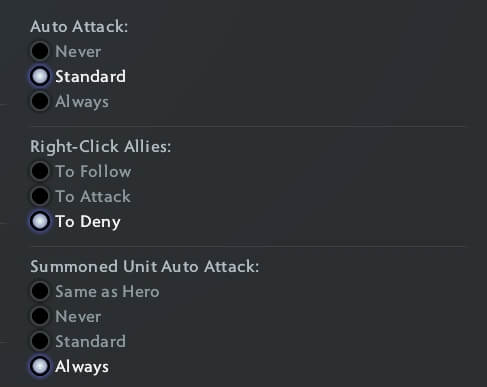
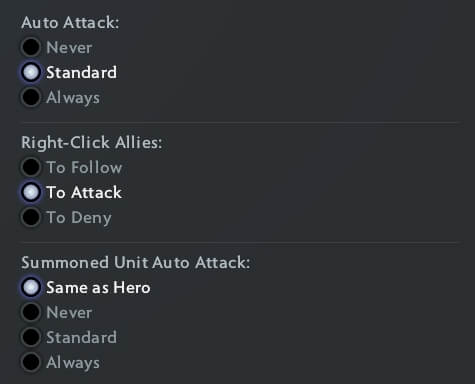
.

Changed region(s): [[0.0295, 0.6562, 0.5305, 1.0], [0.0295, 0.3438, 0.3537, 0.625], [0.0295, 0.0312, 0.2653, 0.2812]]

diff --git a/web/index.html b/web/index.html
@@ -1176,22 +1176,35 @@
       <img class="" src="assets/images/options/options-autoattack.jpg" alt=""> 
 
       <p class="mt2">
-        You definitely want to enable auto attack for illusion based heroes such as <spell>Phantom Lancer</spell><img class="heroicon" src="assets/images/heroicon/phantomlancer.jpg" alt="">, <spell>Terrorblade</spell><img class="heroicon" src="assets/images/heroicon/terrorblade.jpg" alt=""> and <spell>Naga Siren</spell><img class="heroicon" src="assets/images/heroicon/nagasiren.jpg" alt="">, so that you and the illusions auto attack creeps.
+        You definitely want to have <act>Summoned Unit Auto Attack: Always</act> for manta and illusion based heroes such as <spell>Phantom Lancer</spell><img class="heroicon" src="assets/images/heroicon/phantomlancer.jpg" alt="">, <spell>Terrorblade</spell><img class="heroicon" src="assets/images/heroicon/terrorblade.jpg" alt=""> and <spell>Naga Siren</spell><img class="heroicon" src="assets/images/heroicon/nagasiren.jpg" alt="">.<br><br>
+      
+        This works: <act>Auto Attack: Standard</act> + <act>Summoned Unit Auto Attack: Always</act>
+      </p>
+
+      <div class="separator mt2"></div>
+
+      <p class="mt2">
+        Another option is to use <act>Toggle Autoattack</act> button.
       </p>
 
       <img class="" src="assets/images/options/toggleautoattack.jpg" alt="">
+
+      <p class="mt2">
+        This allow you to use <act>Summoned Unit Auto Attack: Same as Hero</act> and switch the state with the button.<br>
+      </p>
+
+      <p class="mt2">
+        However, I personally don't like <act>Autoattack: On</act> on my main hero. <br>
+        I use <act>Auto Attack: Standard</act> + <act>Summoned Unit Auto Attack: Always</act>.<br><br>
+        Experiment with it.
+      </p>
+
 
       <div class="separator mt2"></div>
 
       <p class="mt2">And don't forget to enable <act>Quick Attack</act> and <act>Quick Move</act>.</p>
 
       <img class="" src="assets/images/options/quickattackmove.jpg" alt=""> 
-
-      <p class="mt2">
-        You <i>might</i> want to use <act>Auto Attack: Always</act> for 'Cancel Hit' last hitting.<br>
-        But that's old.<br><br>
-        The newest tech for last-hits is to use the <act>Auto-repeat Right Mouse</act> instead.
-      </p>
 
     </div>    
 
@@ -1202,22 +1215,43 @@
       <h2>How to Last-Hit</h2>
 
       <p class="mt2">
-        Step 1. Enable <act>Auto-repeat Right Mouse</act> and <act>Quick Attack</act>.
+        Step 1a. Enable <act>Auto-repeat Right Mouse</act>.
       </p>
 
       <img class="" src="assets/images/options/autorepeatmouse.jpg" alt=""> 
+
+      <p class="mt2">
+        Step 1b. Enable <act>Quick Attack</act>.
+      </p>
+
       <img class="" src="assets/images/options/quickattackmove.jpg" alt="">
 
       <p class="mt2">
-        Step 2. Press and hold your <act>Right-Click</act> or <act>Attack</act> on your target creep.
+        Step 1c. Check <act>Right-Click Allies: To Attack</act>.
+      </p>
+
+      <img class="" src="assets/images/options/options-rightclick-allies.jpg" alt="">
+
+      <p class="mt2">
+        Step 2. Press and hold your <act>Right-Click</act> on your target creep.<br>
+        <act>Attack</act> key doesn't work for this!
       </p>
 
       <p class="mt2">
-        Step 3. Spam your <act>Stop</act> command to cancel the animation.
+        Step 3. Spam your <act>Stop</act> command to cancel the attack animation.
       </p>
 
       <p class="mt4">
-        This way you can reliably last-hit every creep.
+        This way you can reliably last-hit most creeps.
+      </p>
+
+      <div class="separator mt2"></div>
+
+      <p class="mt2">
+        The reason to choose <act>Right-Click Allies: To Attack</act> is for denying.<br><br>
+        If you choose  <act>Right-Click Allies: To Deny</act> your hero will <i>walk</i> toward the creep if it's above 50% or can't be denied.<br>
+        If you choose  <act>Right-Click Allies: To Attack</act> your hero will <b>not</b> <i>walk</i> toward the creep if it's above 50% or can't be denied.<br><br>
+        So this is a better option.
       </p>
 
     </div>    
@@ -1237,15 +1271,17 @@
 
       <p class="mt2">
         However, you really want this <b>Disabled</b> on <spell>Puck</spell><img class="heroicon" src="assets/images/heroicon/puck.jpg" alt=""><br>
-        You want to jump <spell>Ethereal Jaunt</spell><img class="heroicon" src="assets/images/spellicon/etherealjaunt.jpg" alt=""> while channeling <spell>Phase Shift</spell><img class="heroicon" src="assets/images/spellicon/phaseshift.jpg" alt="">
+        <spell>Phase Shift</spell><img class="heroicon" src="assets/images/spellicon/phaseshift.jpg" alt=""> is a channel!
       </p>
 
       <p class="mt2">
-        If you have <act>Abilities Require Cancel</act> <b>Enabled</b> then you have to <i>manually</i> <act>Stop</act> <spell>Phase Shift</spell><img class="heroicon" src="assets/images/spellicon/phaseshift.jpg" alt=""> <i>every time</i>. You need to manually cancel the channeling and then jump.
+        If you have <act>Abilities Require Cancel</act> <b>Enabled</b> then you have to <i>manually</i> <act>Stop</act> <spell>Phase Shift</spell><img class="heroicon" src="assets/images/spellicon/phaseshift.jpg" alt=""> <i>every time</i> before <spell>Ethereal Jaunt</spell><img class="heroicon" src="assets/images/spellicon/etherealjaunt.jpg" alt="">.
       </p>
 
+
+
       <p class="mt2">
-        It's unreasonably clunky and you will die a lot because of it.
+        In my opinion this is unreasonably clunky and you will die a lot because of it.
       </p>
 
     </div>    
@@ -1263,17 +1299,17 @@
       <img class="magnifiable" src="assets/images/options/minimap.jpg" alt=""> 
 
       <p>
-        I use <act>115%</act> and <act>Extra Large Minimap</act> because my eye-sight is no longer perfect.<br>
-        Turns out, life is — indeed — very short. I remember playing Dota 1 on dial-up connection on Battle.net in 3rd grade. It's been, what, 23 years since? It's mind boggling how much life that is and how sometimes random and inevitable death is. I feel lucky I even get to write about hotkeys in a video game.
+        I use <act>115%</act> and <act>Extra Large Minimap</act> because it's easier on my eyes.<br>
+        If I could I'd use an even bigger minimap.
       </p>
 
       <p class="mt2">
         <act>Map Background: Simple</act> has less visual noise and is neutral-gray.<br>
-        Icons stand out more. I'm also color blind so that might be a factor here.
+        Hero icons stand out more, especially the allies, because the direction-arrow is green.
       </p>
       
       <p class="mt2">
-        <act>Dynamically scale  icons</act> makes them lose their consistency.<br>
+        <act>Dynamically Scale Hero Icons in Minimap</act> makes them lose their consistency.<br>
         I find it distracting, so I don't use it.
       </p>
 
@@ -1295,18 +1331,21 @@
       </p>
 
       <p class="mt2">
-        This notably happens to Radiant players intending to walk their  back to base, but they overshoot the mouse movement and accidentally click on the minimap, making them walk in whatever direction (and feed).
+        This notably happens to Radiant players intending to walk back to base, but they overshoot the mouse movement and accidentally click on the minimap.<br>
+        This often makes them walk in whatever direction and feed.
       </p>
      
       <p class="mt2">
-        That's exactly what this option is for: it ignores all minimap inputs for a split second to stop this from happening.
+        That's exactly what this option is for:<br>
+        it ignores all minimap input for a split second to stop this from happening.
       </p>
 
       <p class="mt2">
-        Unfortunately, for slightly more experienced players this setting makes it worse, because the game literally doesn't register our clicks. That's bad.
+        Unfortunately, for slightly more experienced players this setting makes it worse, because the game literally doesn't register our clicks.
       </p>
 
-      <p class="mt2">Set it to 0.</p>
+      <p class="mt2">That's bad.<br><br>
+      Set it to 0.</p>
 
     </div>    
 
@@ -1349,15 +1388,12 @@
       <img class="" src="assets/images/options/chatmessagesound.jpg" alt=""> 
 
       <p>
-        I used <act>Captions</act> for years — it helped me with learning English.
+        I used <act>Captions</act> for years — it helped me with learning English.<br>
+        I like this option a lot, but it's a bit distracting and I no longer need it.
       </p>
       
       <img class="" src="assets/images/options/usecaptions.jpg" alt=""> 
      
-      <p>
-        I like this option actually, but it's a bit distracting.
-      </p>
-
     </div>  
 
 
@@ -1386,12 +1422,18 @@
       
       <p class="mt2">
         Another thing you might snatch is the <spell>Aegis</spell><img class="heroicon" src="assets/images/neutralicon/aegis.jpg" alt="">.
+      </p>      
+
+      <p class="mt2">
+        Another great use for <act>Interact only with Non-Hero Units</act> is when you lane against heroes that put their bodies right on top of creeps.<br>
+        You might accidentally attack their hero model instead, missing the last hit.<br><br>
+        This is noticable against bulky heroes like <spell>Primal Beast</spell><img class="heroicon" src="assets/images/heroicon/primalbeast.jpg" alt=""> or phasing heroes like <spell>Broodmother</spell><img class="heroicon" src="assets/images/heroicon/broodmother.jpg" alt="">.
       </p>
 
       <div class="separator mt2"></div>
 
       <p class="mt2">
-        The problem is finding dedicated buttons for these modifiers.<br>
+        The problem is finding dedicated buttons for all these modifiers.<br><br>
         I feel like you need actual extra keys on your keyboard to use these, for example the macro keys on Razer Blackwidow or Logitech G915 (this is not an advertisement, just an example).
       </p>
 
